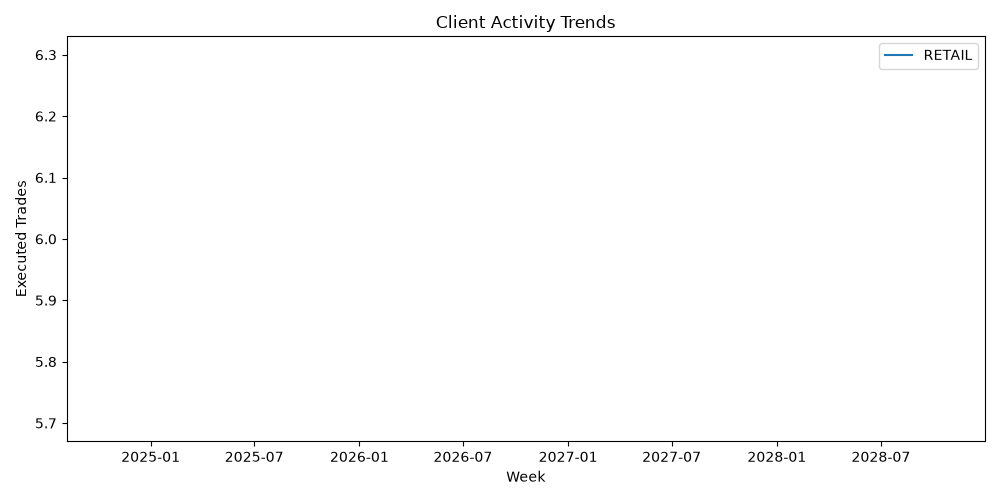
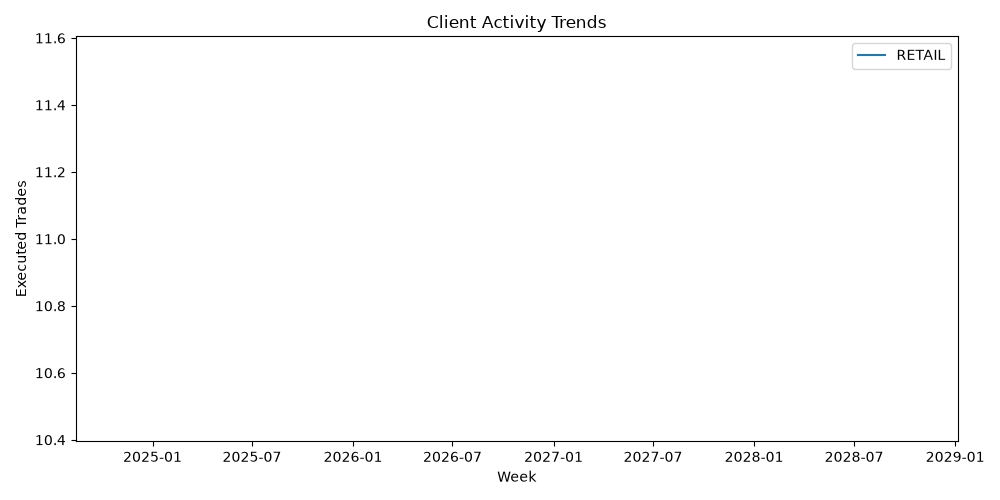
continuing fix of dashboard

diff --git a/analytics/tests/test_etl_pipeline.py b/analytics/tests/test_etl_pipeline.py
@@ -1,0 +1,57 @@
+import unittest
+
+import pandas as pd
+
+from analytics.etl_pipeline import clean_trade_data, compute_insights
+
+
+class AnalystEtlPipelineTest(unittest.TestCase):
+    def test_excludes_deposits_but_keeps_equity_and_forex_trades(self) -> None:
+        trades = pd.DataFrame(
+            [
+                {
+                    "order_id": "deposit-usd",
+                    "executed_at": "2026-10-01T12:00:00Z",
+                    "client_id": "client-1",
+                    "client_segment": "RETAIL",
+                    "instrument_id": "usd",
+                    "symbol": "USD",
+                    "side": "DEPOSIT",
+                    "quantity": 100000,
+                    "price": 1,
+                },
+                {
+                    "order_id": "buy-aapl",
+                    "executed_at": "2026-10-02T12:00:00Z",
+                    "client_id": "client-1",
+                    "client_segment": "RETAIL",
+                    "instrument_id": "aapl",
+                    "symbol": "AAPL",
+                    "side": "BUY",
+                    "quantity": 5,
+                    "price": 200,
+                },
+                {
+                    "order_id": "exchange-usd-inr",
+                    "executed_at": "2026-10-03T12:00:00Z",
+                    "client_id": "client-1",
+                    "client_segment": "RETAIL",
+                    "instrument_id": "inr",
+                    "symbol": "INR",
+                    "side": "BUY",
+                    "quantity": 50000,
+                    "price": 0.012,
+                },
+            ]
+        )
+
+        cleaned = clean_trade_data(trades)
+        insights = compute_insights(cleaned)
+
+        self.assertEqual(set(cleaned["order_id"]), {"buy-aapl", "exchange-usd-inr"})
+        self.assertEqual(insights.volume_by_day["total_quantity"].sum(), 50005)
+        self.assertEqual(insights.volume_by_day["executed_trades"].sum(), 2)
+
+
+if __name__ == "__main__":
+    unittest.main()

diff --git a/src/main/java/com/ceo/trading_platform_backend/repositories/AnalystReportingRepository.java b/src/main/java/com/ceo/trading_platform_backend/repositories/AnalystReportingRepository.java
@@ -20,6 +20,7 @@ public interface AnalystReportingRepository extends JpaRepository<ReportingTrade
             FROM reporting_trade_fact
             WHERE executed_at >= :fromTs
               AND executed_at < :toTs
+              AND side <> 'DEPOSIT'
               AND (:symbol IS NULL OR symbol = :symbol)
               AND (:clientSegment IS NULL OR client_segment = :clientSegment)
             """, nativeQuery = true)
@@ -38,6 +39,7 @@ public interface AnalystReportingRepository extends JpaRepository<ReportingTrade
             FROM reporting_trade_fact
             WHERE executed_at >= :fromTs
               AND executed_at < :toTs
+              AND side <> 'DEPOSIT'
             GROUP BY symbol
             ORDER BY total_notional DESC
             LIMIT :resultLimit
@@ -57,6 +59,7 @@ public interface AnalystReportingRepository extends JpaRepository<ReportingTrade
             FROM reporting_trade_fact
             WHERE executed_at >= :fromTs
               AND executed_at < :toTs
+              AND side <> 'DEPOSIT'
               AND (:clientSegment IS NULL OR client_segment = :clientSegment)
             GROUP BY period_start, client_segment
             ORDER BY period_start ASC, client_segment ASC

diff --git a/analytics/etl_pipeline.py b/analytics/etl_pipeline.py
@@ -48,6 +48,7 @@ def extract_fulfilled_trades_from_db(db_url: str | URL) -> pd.DataFrame:
         LEFT JOIN public.instrument subtract_instrument
             ON subtract_instrument.instrument_id = o.subtract_instrument_id
         INNER JOIN public.user_account ua ON ua.user_id = o.client_id
+        WHERE o.side <> 'DEPOSIT'
         '''
     )
 
@@ -128,6 +129,7 @@ def clean_trade_data(df: pd.DataFrame) -> pd.DataFrame:
     cleaned["symbol"] = cleaned["symbol"].astype(str).str.strip().str.upper()
     cleaned["client_segment"] = cleaned["client_segment"].astype(str).str.strip().str.upper()
     cleaned["side"] = cleaned["side"].astype(str).str.strip().str.upper()
+    cleaned = cleaned[cleaned["side"] != "DEPOSIT"]
 
     cleaned["notional"] = cleaned["quantity"] * cleaned["price"]
     cleaned["executed_day"] = cleaned["executed_at"].dt.floor("D")
@@ -247,6 +249,10 @@ def write_cli_report(insights: InsightBundle, output_dir: Path) -> Path:
 
 
 def load_reporting_trade_fact(df: pd.DataFrame, db_url: str | URL) -> None:
+    if df.empty:
+        print("No fulfilled trades to load into reporting_trade_fact")
+        return
+
     engine = create_engine(
         db_url,
         pool_size=1,
